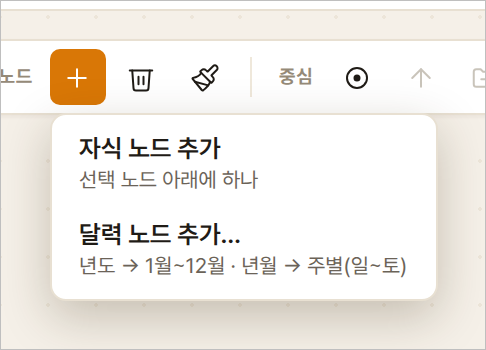
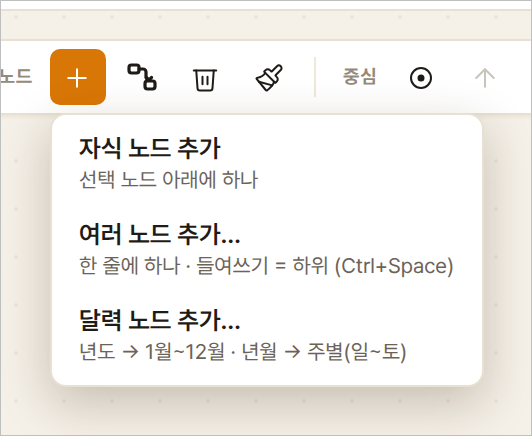
+ 메뉴 ▸ 여러 노드 추가… — Ctrl+Space 가 다른 프로그램에 잡힌 PC 에서도 다중 노드 추가 (e2e312) (#574)
사용자 보고(2026-09-28): Ctrl+Space 가 다른 소프트웨어에 할당돼 다중 노드 추가가
안 된다. 툴바 [+] 메뉴에 "여러 노드 추가…"(add-menu-multi) 를 넣어 같은
MultiAddDialog 를 연다. 단축키는 그대로.

- 검증: guide03-calendar.mjs 55항목 PASS(2회, 메뉴 항목·창 열림·닫힘 3항목 추가)
- 문서: user-guide 03(메뉴 스크린샷 재촬영)·09 · 10-canvas §21.2 · test-catalog e2e312/267차

Claude-Session: https://claude.ai/code/session_01PHMCTbMKMt1Nq2yNJHcjEs

diff --git a/apps/frontend/src/editor/canvas/CanvasFloatingToolbar.tsx b/apps/frontend/src/editor/canvas/CanvasFloatingToolbar.tsx
@@ -13,6 +13,7 @@ import { expandScope } from '@/utils/expandScope';
 import { mapCenters } from '@/editor/__samples__/types';
 import { useInteractionStore } from '@/stores/interactionStore';
 import { useViewportStore } from '@/stores/viewportStore';
+import { useEditorUiStore } from '@/stores/editorUiStore';
 
 interface Props {
   t: ThemeTokens;
@@ -107,6 +108,9 @@ export function CanvasFloatingToolbar({
   //   · 선택이 있으면: 메뉴 → "자식 노드 추가" / "달력 노드 추가…"
   // 달력은 노드 글(과 조상)에서 년도·월을 읽어 미리 채운 창을 띄운다.
   const [addMenuOpen, setAddMenuOpen] = useState(false);
+  // 여러 노드 추가 창 (2026-09-28 사용자 보고: Ctrl+Space 가 다른 프로그램에 잡혀 있어
+  // 단축키만으로는 열 수 없다 — 메뉴에서도 연다)
+  const setMultiAddOpen = useEditorUiStore((state) => state.setMultiAddOpen);
   const [calendar, setCalendar] = useState<{ parentId: string; parentLabel: string; initial: YearMonth } | null>(null);
   useEffect(() => {
     if (!addMenuOpen) return;
@@ -197,7 +201,7 @@ export function CanvasFloatingToolbar({
         <ToolbarBtn
           t={t}
           title={hasSelection
-            ? '노드 추가 — 자식 노드 · 달력 노드(년도 → 1월~12월, 년월 → 주별)'
+            ? '노드 추가 — 자식 노드 · 여러 노드 · 달력 노드(년도 → 1월~12월, 년월 → 주별)'
             : '중심 노드 추가 (노드를 고르면 그 아래에 자식 노드 추가)'}
           highlight={hasSelection || addMenuOpen}
           onClick={handleAddClick}
@@ -216,6 +220,7 @@ export function CanvasFloatingToolbar({
             }}
           >
             <MenuItem t={t} testId="add-menu-child" label="자식 노드 추가" hint="선택 노드 아래에 하나" onClick={() => { setAddMenuOpen(false); handleAddNode(); }} />
+            <MenuItem t={t} testId="add-menu-multi" label="여러 노드 추가…" hint="한 줄에 하나 · 들여쓰기 = 하위 (Ctrl+Space)" onClick={() => { setAddMenuOpen(false); setMultiAddOpen(true); }} />
             <MenuItem t={t} testId="add-menu-calendar" label="달력 노드 추가…" hint="년도 → 1월~12월 · 년월 → 주별(일~토)" onClick={openCalendar} />
           </div>
         )}

diff --git a/docs/05-implementation/test-catalog.md b/docs/05-implementation/test-catalog.md
@@ -133,6 +133,7 @@
 | e2e290 | **MCP — GitHub 저장소 문서 → 새 맵 · 저장소 변경 반영(노드 단위)** (2026-09-21 사용자 요청: "github 저장소를 지정하면 문서 폴더 하위 문서들을 새맵으로 — 폴더 트리 그대로, 파일 제목 노드 + GitHub URL 하이퍼링크, 목차 2레벨까지 노드(중요 표·내용은 노트), 최종 업데이트 시간을 노트로" · "OOO 맵을 업데이트 해줘" · "OOO 맵의 OOO 노드를 업데이트" · "현재 선택한 노드의 내용을 업데이트" · "파일 단위 및 2레벨 목차 단위까지") | 구성: 단위 `apps/api/test/github-docs.test.mjs` **81항목**(`test:mcp`) + `mcp-jsonrpc.test.mjs` 갱신(도구 여덟 · 이름 예외 하나). 새 파일 `mcp/github-client.ts`(GitHub REST: 기본 브랜치·트리·파일별 마지막 커밋·raw 원문, `GITHUB_TOKEN` 선택, 한도 문장) · `mcp/github-docs.ts`(순수: 저장소 지정 해석 · 문서 폴더 판정 · `##`·`###` 절 나누기 · 폴더 트리→맵 · 갱신 계획·적용) · `mcp-tools.ts` 도구 둘. **확인** ① 저장소 지정: `owner/repo`·https·`.git`·`tree/브랜치/경로`, 빈 값·owner 만·이상한 글자 거절 ② 문서 폴더 자동(docs/doc/…, 대소문자)·마크다운만·바이트순·blob sha ③ 절 나누기: front matter 걷기 · 펜스 안 `#` 은 견출 아님 · 표·목록·코드(lang)·인용문 · `####` 는 굵은 글 · 사진 줄 버림 · 제목 없는 문서 · `##` 없는 `###` ④ 맵: 루트 출처 노트 왕복 · 폴더 먼저·README 먼저·이름순 · 1레벨 색·방향 · 폴더/문서 링크·라벨 · `최종 업데이트: 시각 · 커밋 · 파일` 왕복 · 머리말 문단·표 노트 · `##`→자식·`###`→손자 · 커밋 모름 "(알 수 없음)" · id 전부 유일 ⑤ 계획: 추가·수정·삭제·그대로 · 옛 맵(sha 없음)은 커밋 시각 비교(뒤면 수정·앞이면 그대로) · 폴더·문서 범위 · 범위 판정(폴더·문서·절·전체·아님) · 절 제목 사슬 ⑥ 적용: 원본 불변 · 수정 노드 id 유지 · 갱신 노트 새것 · 절은 제목으로 짝지어 id 유지, 없어진 절 삭제·새 절 추가 · 생성 노트만 교체·사용자 노트 보존 · 사용자 노드 보존 · 루트 "가져옴" 갱신 · 1레벨 색 유지 · 빈 폴더 함께 삭제 · 새 폴더 사슬(폴더는 문서 앞) · **절 범위는 그 절만**(문서 제목·갱신 노트·다른 절 그대로) · 사라진 절은 알리고 둔다 · 다른 저장소 링크 무시 ⑦ Codex 지적 둘 반영: 트리는 문서 폴더 아래만 재귀(가짜 fetch 로 한 층씩 내려감 확인)·잘리면 중단, 출처 경로의 공백 왕복. **한계(정직하게)** — 진짜 GitHub·DB·Claude 대화로는 못 재 봤다(이 컨테이너는 GitHub API 연결이 막혀 있다). dev 배포 뒤 "okpojung/easymindmap 저장소의 docs/user-guide 폴더를 emm 새 맵으로" → "그 맵을 업데이트 해줘" 로 확인이 남았다. 익명은 문서 50개까지 — 더 크면 API 서버 `GITHUB_TOKEN` | mcp-connector §9.14 · §2-3 · api-spec 40a · user-guide 12 |
 | e2e289 | **Pan 모드에서 노드를 고를 수 없던 것 + [모두 접기]가 가지를 통째로 닫지 않던 것** (2026-09-21 사용자 보고 둘 — e2e288 후속) | 구성: 진짜 vite + 크로미움 + **진짜 에디터**(아웃라인 분할 포함). **원인** — Pan 모드에서 누르는 즉시 `setPointerCapture` 를 걸어 뒤따르는 `click` 이 노드가 아니라 **캡처한 `<svg>` 로** 갔다. 그래서 노드의 `onClick`(선택) 대신 `<svg>` 의 `onClick`(빈 곳 = 선택 해제)이 떠서 **고를 수도, 고른 것을 지킬 수도 없었다** — 맵→아웃라인 동기화가 끊긴 것도, ＋/− 의 '선택한 노드만' 이 안 먹은 것도 여기서 나왔다. **고침 ①** 노드 위에서 시작한 Pan 은 **움직인 뒤에만** 잡는다(`deferCapture`). **고침 ②** `collapseSubtree` 가 **고른 노드 자신까지** 접는다(2026-09-08 의 '직계 자식은 남긴다' 를 사용자가 뒤집었다 — *"지금은 해당 노드의 2레벨 이하의 노드만 접힌다"*). **19항목 PASS** — ① 배지 문구 ② Pan 모드에서 누른 노드가 선택되고 다른 노드로 옮겨간다 ③ ★ 맵에서 고른 것이 **아웃라인 줄에 강조로 비친다**(배경 `rgb(254,243,199)` · `font-weight 600`) ④ 아웃라인 → 맵도 그대로 ⑤ ★ 그래도 **끌어 옮기는 것은 막힌다**(부모 `b1` → `b1` 그대로, 화면은 끌린다, 선택도 안 바뀐다) ⑥ ★ 눌러 고른 노드에 `−` → **그 가지가 통째로**(`b1` 까지) 접히고 다른 가지는 그대로, `+` 로 되돌아온다 ⑦ 빈 곳 클릭은 Pan 모드에서도 선택 해제 ⑧ Pan 을 끄면 붙여넣기가 되살아난다(`b1` → `b5`) ⑨ 콘솔 오류 0. 단위 `subtreeCollapse.test.ts` 7 → **9항목**(잎만 고른 경우 · 여럿 고른 경우 추가). **되돌려 깨뜨리기** — `deferCapture` 를 끄면 ②③⑤⑥ 이 `sel=null` 로 6건 FAIL(사용자가 본 그대로). ★ **함정** — 빈 캔버스 좌표를 고정으로 쓰면 왼쪽 사이드바에 맞는다(실측 (40,700) 은 `DIV`) → `elementFromPoint` 로 `svg` 인 자리를 **찾아서** 누른다 | 10-canvas §6.5 · §21.2-A · 04-레이아웃과-보기 |
 | e2e294 | **유료 맵은 pro 없이도 새지 않는다 — 서버가 자르고, 검색도 2레벨까지만** (2026-09-21, 27b §10 2단계. 사용자가 법·세무 확인과 PG 계약이 끝났다고 알린 뒤 시작) | 구성: 진짜 PostgreSQL 16 + **진짜로 빌드한 API**(:3010) + 진짜 HTTP(비인증 = 손님의 눈). 판정은 "무엇이 남았나" 가 아니라 **"응답 어디에도 그 글자가 없다"** 다 — 깊이 4에 노트·첨부·링크를 층층이 심은 맵으로 센다. **48항목 PASS**. ① 무료일 때는 4레벨·노트까지 전부 온다(기준선) ② 값 매기기 — 하한 1,000원 미만·상한 100,000원 초과·소수점·비숫자 **네 가지 거절**, 매기면 `visibility` 가 함께 `paid` 로, 지식창고에서 내려가지 않는다 ③ ★★ **유료 맵도 열리되 잘려 온다** — 중심·1레벨은 보이고 3·4레벨 없음, **2레벨 노드의 노트 없음**(가장 틀리기 쉬운 자리), 중심 노트·링크 이름·첨부 이름·코드 노트 전부 없음, `stats` 는 자르기 **전**(6노드·깊이 4·첨부 1·노트 3·가려진 3) ④ `og.html` 로도 안 샌다(같은 판정을 쓰는 둘째 길) ⑤ ★★ **스무고개가 안 통한다** — 3레벨 낱말·노트 낱말로는 그 맵이 검색에 안 잡히고, **2레벨(목차) 낱말로는 잡힌다**(발견 자체는 된다). 카드에 값이 실리고 건수도 2레벨 색인으로 센다 ⑥ 값 없이 `visibility='paid'` 로 바꾸는 길은 400 으로 막힌다(값 없는 유료 맵을 못 만든다) ⑦ 지식창고 토글이 값을 내리지 않는다(회귀 — `!== 'public'` 이면 값이 조용히 내려갔다) ⑧ 값을 내리면 4레벨·노트·검색이 **전부 돌아온다** ⑨ `/v1/features` 에 `map-sales` 가 꺼진 채 이유와 함께 있다. **되돌려 깨뜨리기 두 번** — 자르기를 빼면 ③⑦ 이 **14건 FAIL**(전문이 그대로 나간다), 색인 경계를 빼면 ⑤ 가 **3건 FAIL**(3레벨 낱말로 맵이 잡힌다). 단위 `trim-for-preview.test.mjs` **37항목**(★ 목록에 없는 새 칸은 나가지 않는다 · 여러 중심주제 · 깊이를 늘려도 노트는 안 나간다 · 깨진 문서는 빈 미리보기). DB: 델타를 **돌고 있는 DB 에 적용**해 확인하고, 빈 DB 에 `schema.sql` 을 부어 **네 객체가 같게 생기는지**(칼럼·함수·인덱스·제약) 대조했다. ★ **설계에서 바꾼 것 둘** — ⑴ 색인 경계를 '유료로 바꿀 때 다시 만든다'(절차)가 아니라 **트리거가 두 색인을 늘 함께** 만드는 쪽으로(절차가 한 번 빠지면 전문인 채로 남고 아무도 모른다) ⑵ 402 스텁 대신 **`/v1/features`** 로(코어에 유료 경로를 뚫지 않는다 — open-core-boundary §4.1). ★ **함정** — 실측 DB 에 `{map:{text,children}}` 모양의 옛/시험 문서가 있었다. `root`·`branches` 가 없어 `preview_text` 가 NULL 이 되는데, **그 경우 내용 검색에서 빠지는 쪽(fail-closed)이라 새지는 않는다** | 27b §5 · api-spec `/published` · 27b §0.2 |
+| e2e312 | **`+` 메뉴 ▸ 여러 노드 추가…** (2026-09-28 사용자 보고: "`Ctrl+Space` 가 다른 소프트웨어에 할당되어 다중 노드 추가가 작동이 안 된다 — 노드 추가 하위 메뉴에 넣어 달라") | `guide03-calendar.mjs` ② 에 3항목 추가: 메뉴에 `여러 노드 추가…` 가 있다 · 누르면 `multi-add-dialog` 가 뜬다(Esc 로 닫힘). `03-add-menu.png` 재촬영 — **55항목 PASS** | 10-canvas §21.2 · user-guide 03·09 |
 | e2e306 | **연결선 — 시작 면·끝 면 고르기** (2026-09-23 사용자 요청: "두 번째 연결선을 왼쪽 노드의 아래에서 오른쪽 노드의 아래면으로 이으면 깔끔하겠다 — 시작 면과 끝 면을 설정할 수 있게") | 단위 `connectorGeometry.test.ts` ⑦ 15항목(auto 해석 · 둘 다 auto 는 예전 규칙 · 아래→아래/위→위/왼→왼 고리 + 사이 상자 회피 · 마주 봄 ㄷ/등짐 6점 · 직각 ㄱ/ㄹ · 한쪽만 정함 · 점 정리) — 전체 34 PASS. 브라우저 `guide03-connector.mjs` ⑨ 10항목 추가(패널 단추 · 아래→아래 시작/끝점이 면 한가운데 · 줄기가 둘 아래 바깥 · 문서 저장 · 왼쪽 아래→오른쪽 아래 4점 · 오른쪽→위 · 자동 복귀로 값 삭제 · mmd `fromSide/toSide` 왕복 · HTML 뷰어 같은 고리) — **44항목 PASS**(3회 연속). 파서 `declaration.test.ts` ⑥ 에 면 키 포함 | 10-canvas §31 · emm-spec §3.7 · user-guide 03 |
 | e2e308 | **손님 [구매하기] → 파일 받기 → 환불 기록** (2026-09-24, 27b §8.2.1. 사용자 결정: *"수동 환불로 먼저 연다"*) | 브라우저 e2e307(vite + 크로미움 + **실제 API**(목 모드) + **실제 PostgreSQL 16**, 다운로드 파일 내용까지 읽는다): 잠김 띠에 [구매하기] · **사기 전에** "다운로드 전에는 전액 환불"·무엇을 받는지·**무엇이 안 들어가는지**(사진·첨부) · 이메일·휴대폰 없이는 결제 불가 · 목 모드면 **가짜 주소로 보내지 않고 왜인지 말한다** · 원장에 미결제 생성 · 관리자 [결제완료 처리](목 모드) → paid · 손님이 이어서 → **열쇠 1개만** 만들어진다 · [파일 받기] → **다시 불러올 수 있는 뷰어 HTML**(`id="easymindmap-map"`) · `downloaded_at` 이 찍힌다(청약철회 경계) · 관리자 목록에 제목·이메일·다운로드 여부 · **이유 없는 환불 거절** · 사유를 적으면 `refunded`+사유 기록 · **두 번 누르면 409** · 환불 뒤에는 같은 열쇠로 못 받고 **만료·없음·환불을 구분하지 않는다** — **27항목 PASS**. **문지기 1** — 실 PG 모드에서 [결제완료 처리] 는 409 로 막히고 원장도 그대로다. 되돌려 깨뜨리기: 그 판정을 빼면 **돈을 받지 않은 판매가 `paid` 가 된다** | 27b §8.2.1 · open-core-boundary §5.4 |
 | e2e309 | **산 사람의 사진·첨부 — 코어가 열고 판정은 유료가 한다** (2026-09-27, 27b §8.2.2 **8단계**) | 브라우저 e2e309(vite + 크로미움 + **실제 API** + **실제 PostgreSQL 16** + **실제 파일 저장소**, 진짜 PNG·txt 를 올려 유료 맵에 걸고 받은 zip 을 풀어 본다): **열쇠 없이 404** · **아무 열쇠나 대도 404** · 무료 공개 경로로도 404(값을 매긴 맵이다) · 결제 뒤 열쇠 → **사진을 받는다**(PNG 매직 바이트) · `no-store`·`no-referrer` · 첨부 파일도 받는다 · ★**같은 열쇠로 다른 맵의 첨부는 404**(먼저 그 맵의 것인지 보고 그다음에 묻는다) · 브라우저에서 [파일 받기] → **.zip**(`files/bonus.txt` 원본) · 사진이 **data URL 로 박혀** 있다 · **서버 주소가 남아 있지 않다** · 화면이 첨부 수를 말한다 — **16항목 PASS**. 되돌려 깨뜨리기: 구매 판정을 빼면 **열쇠 없이 아무나** 유료 맵의 사진·첨부를 받는다(3 FAIL). **설계** — 내보내기를 두 벌로 만들지 않았다: 손님이 받는 파일은 저자의 `[내보내기]` 와 **같은 함수**(`buildExportPackage`)가 만들고, **첨부를 가져오는 길만** 갈아 끼운다(`AttachmentBytesFetcher`) | 27b §8.2.2 · api-spec `POST /published/{id}/attachment` · open-core-boundary §5.4 |
@@ -472,6 +473,9 @@
 > 겹쳐 보이지만 날짜와 함께 읽으면 유일하다. **고치지 말 것** — 그때의
 > 기록을 지금 규칙으로 고쳐 쓰면 없던 역사를 만드는 셈이다.
 
+- 2026-09-28 (267차): **e2e312 — `+` 메뉴 ▸ 여러 노드 추가…**. `Ctrl+Space` 가 다른
+  프로그램에 잡힌 PC 에서 다중 노드 추가를 열 길이 없었다. 툴바 `+` 메뉴에 항목을
+  넣어 같은 창을 연다. 문서: 10-canvas §21.2 · user-guide 03·09.
 - 2026-09-28 (266차): **e2e311 — DB 백업 운영 네이티브 PG 분기**(B20 ⑤,
   미리). `PG_MODE=native` 면 `runuser -u postgres -- pg_dumpall`, 설정은
   `/etc/emm-backup.env`(cron 환경변수가 우선). 가짜 `runuser` 로 ⑪ 15항목

diff --git a/docs/03-editor-core/canvas/10-canvas.md b/docs/03-editor-core/canvas/10-canvas.md
@@ -749,7 +749,7 @@ ThinkWise 처럼 아이콘을 **연결선이 시작되는 자리**에 놓는다.
 
 | 그룹 | 라벨 | 버튼 | 활성 조건 | 단축키 |
 |---|---|---|---|---|
-| 노드 | **노드** | `+` (`add-node`, 2026-09-22 사용자 요청) — 선택 없음: **중심 노드 추가**(새 중심주제와 같다) · 선택 있음: 메뉴(`add-menu`) `자식 노드 추가` / `달력 노드 추가…`(`CalendarNodeDialog` — 노드 글·조상에서 년도·월을 읽어 미리 채운 창, 년도 → 1월~12월 · 년월 → `[NN주] YYYY/MM/DD(일) ~ MM/DD(토)` → 날짜 노드 7개(`YYYY/MM/DD(요일)`, 공휴일은 `\n[이름]`; 일요일·토요일·공휴일 `textColor` 빨강 `#DC2626`, 고른 달이 아닌 날은 회색 `#A3A3A3` + `borderStyle:'dashed'` — `utils/koreanHolidays.ts` 2024~2030 표 + 고정 공휴일), `utils/calendarNodes.ts` · `addChildOutlineBulk` 한 번 = undo 1단계(`OutlineItem.style` 을 노드에 복사). **표로 붙여넣기** 체크(`calendar-as-table`, 월을 골라야 켜짐) → 노드를 만들지 않고 `updateNodeText` 로 선택 노드 내용 끝에 `calendarTable()` GFM 표(일~토 7열 · 일요일·공휴일 `**N**`, 이름 없음)를 붙인다, 2026-09-22 사용자 수정 1·2차). 사용자 가이드 03 | 항상 | — (다중 추가는 캔버스 `Ctrl+Space` 팝업) |
+| 노드 | **노드** | `+` (`add-node`, 2026-09-22 사용자 요청) — 선택 없음: **중심 노드 추가**(새 중심주제와 같다) · 선택 있음: 메뉴(`add-menu`) `자식 노드 추가` / `여러 노드 추가…`(`add-menu-multi`, 2026-09-28 — `Ctrl+Space` 가 다른 프로그램에 잡힌 PC 를 위해 `setMultiAddOpen(true)` 로 같은 `MultiAddDialog` 를 연다) / `달력 노드 추가…`(`CalendarNodeDialog` — 노드 글·조상에서 년도·월을 읽어 미리 채운 창, 년도 → 1월~12월 · 년월 → `[NN주] YYYY/MM/DD(일) ~ MM/DD(토)` → 날짜 노드 7개(`YYYY/MM/DD(요일)`, 공휴일은 `\n[이름]`; 일요일·토요일·공휴일 `textColor` 빨강 `#DC2626`, 고른 달이 아닌 날은 회색 `#A3A3A3` + `borderStyle:'dashed'` — `utils/koreanHolidays.ts` 2024~2030 표 + 고정 공휴일), `utils/calendarNodes.ts` · `addChildOutlineBulk` 한 번 = undo 1단계(`OutlineItem.style` 을 노드에 복사). **표로 붙여넣기** 체크(`calendar-as-table`, 월을 골라야 켜짐) → 노드를 만들지 않고 `updateNodeText` 로 선택 노드 내용 끝에 `calendarTable()` GFM 표(일~토 7열 · 일요일·공휴일 `**N**`, 이름 없음)를 붙인다, 2026-09-22 사용자 수정 1·2차). 사용자 가이드 03 | 항상 | — (다중 추가는 캔버스 `Ctrl+Space` 팝업 = 메뉴 `여러 노드 추가…`) |
 | 노드 | | 🗑 노드 삭제 | 선택 노드 있을 때 | `Del` |
 | 노드 | | 🖌 스타일 복사 (`style-copy`, 2026-09-19) — 선택 노드의 겉모습을 붓에 담아 클릭/러버밴드로 다른 노드에 칠한다. 05-node-style §20 | 선택 노드 있을 때(켜진 뒤엔 항상 — 재클릭 = 끄기). 칸반 제외 | `ESC` 끄기 |
 | 중심 | **중심** | ◎ 새 중심주제 (`center-add`) | 항상 (칸반 제외) | — |

diff --git a/docs/user-guide/03-노드-편집.md b/docs/user-guide/03-노드-편집.md
@@ -11,7 +11,7 @@
 | `Shift+Space` | 아래 형제 노드 추가 |
 | `Enter` | 아래 형제 노드 추가 |
 | `Tab` (편집 끝낸 뒤) | 자식 노드 추가 |
-| `Ctrl+Space` | 여러 노드 한 번에 추가 — **들여쓴 줄은 하위 노드** (아래 참조) |
+| `Ctrl+Space` 또는 오른쪽 위 `+` ▸ **여러 노드 추가…** | 여러 노드 한 번에 추가 — **들여쓴 줄은 하위 노드** (아래 참조) |
 | `Ctrl+←` | 상위(부모) 노드 추가 |
 | 오른쪽 위 도구의 **노드 `+`** | **고른 노드가 있으면** 메뉴 — `자식 노드 추가` / `달력 노드 추가…` (아래 절). **고른 것이 없으면** 빈 캔버스에 **중심 노드**를 하나 더 만듭니다 (2026-09-22) |
 
@@ -46,9 +46,11 @@
 </table>
 
 
-### 여러 노드 한 번에 추가 (`Ctrl+Space`) — 들여쓰기가 계층입니다
+### 여러 노드 한 번에 추가 (`Ctrl+Space` 또는 `+` ▸ 여러 노드 추가…) — 들여쓰기가 계층입니다
 
-노드를 고르고 `Ctrl+Space` 를 누르면 **다중 노드 추가** 창이 뜹니다. 한 줄에
+노드를 고르고 `Ctrl+Space` 를 누르거나, 캔버스 오른쪽 위 툴바 **`+`** 를 눌러
+**여러 노드 추가…** 를 고르면 **다중 노드 추가** 창이 뜹니다(2026-09-28 — `Ctrl+Space`
+가 다른 프로그램(입력기 전환 등)에 잡혀 있는 PC 에서도 열 수 있게 메뉴에도 두었습니다). 한 줄에
 하나씩 적으면 각 줄이 그 노드의 자식이 되고, **스페이스나 Tab 으로 들여쓴
 줄은 바로 위 덜 들여쓴 줄의 하위 노드**가 됩니다(2026-09-08). `Ctrl+Enter`
 로 추가합니다.
@@ -74,7 +76,7 @@
 
 노드 하나를 고르고 오른쪽 위 도구의 **`+`** 를 누르면 메뉴가 뜹니다.
 
-<img src="assets/03-add-menu.png" width="360" alt="오른쪽 위 노드 + 버튼 아래 메뉴 — 자식 노드 추가 / 달력 노드 추가…">
+<img src="assets/03-add-menu.png" width="360" alt="오른쪽 위 노드 + 버튼 아래 메뉴 — 자식 노드 추가 / 여러 노드 추가… / 달력 노드 추가…">
 
 **`달력 노드 추가…`** 를 고르면 작은 창이 뜨는데, 고른 노드의 글(과 상위
 노드)에서 읽은 **년도·월이 미리 채워져** 있습니다. 확인만 하거나 고치세요.

diff --git a/docs/user-guide/09-단축키.md b/docs/user-guide/09-단축키.md
@@ -11,7 +11,7 @@
 | `Space` | 자식 노드 추가 |
 | `Shift+Space` | 아래 형제 노드 추가 |
 | `Tab` (편집 끝낸 뒤) | 자식 노드 추가 |
-| `Ctrl+Space` | 여러 노드 한 번에 추가 |
+| `Ctrl+Space` | 여러 노드 한 번에 추가 (이 키가 다른 프로그램에 잡혀 있으면 오른쪽 위 `+` ▸ **여러 노드 추가…**) |
 | 더블클릭 | 글자 편집 시작 (아웃라인 화면은 `Enter`·`F2`) |
 | `Enter` (편집 중) | 저장하고 편집 끝내기 |
 | `Shift+Enter` (편집 중) | 줄바꿈 |
